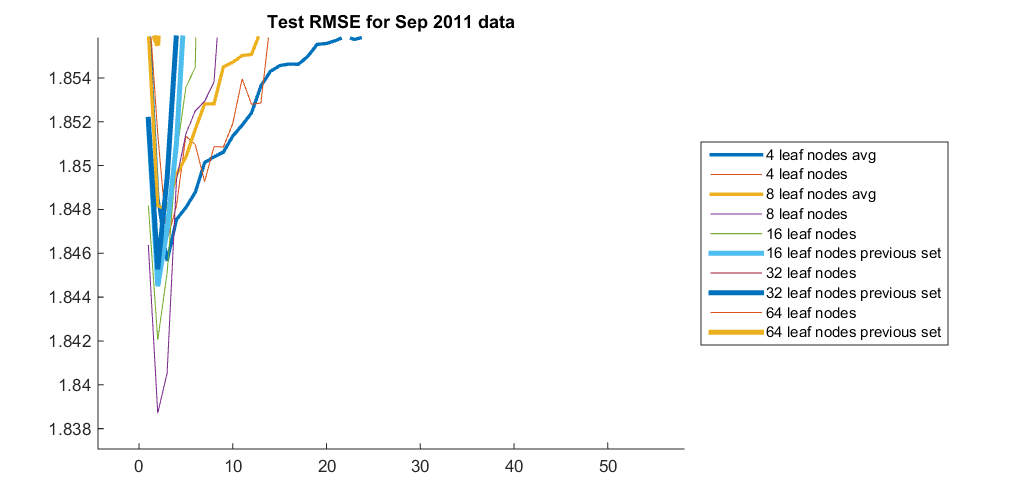
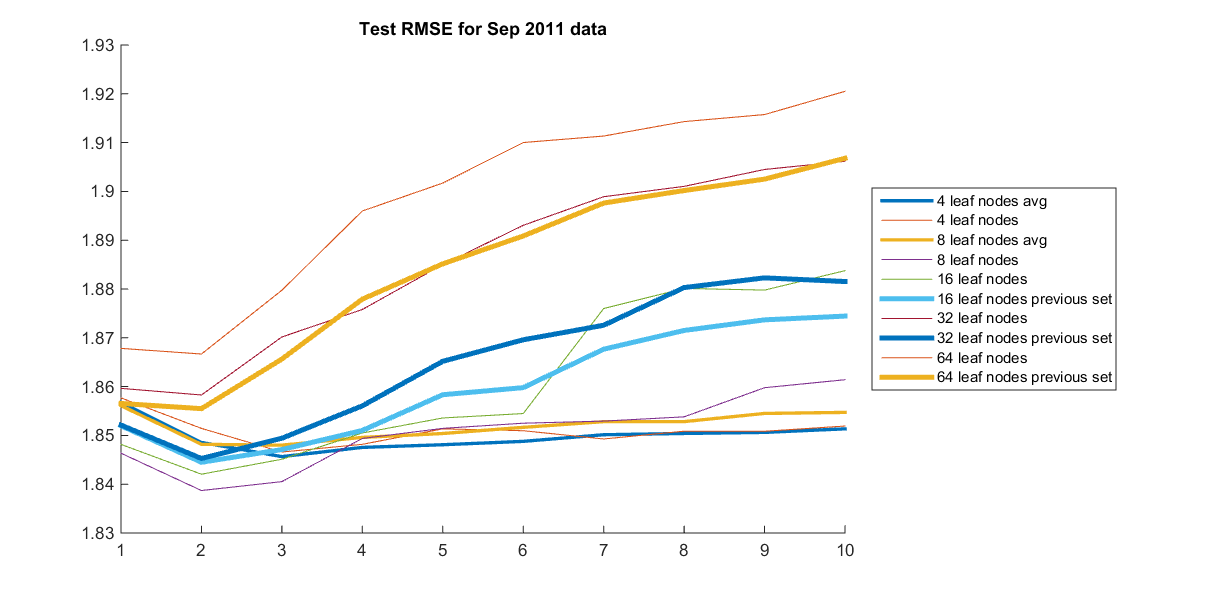
df

diff --git a/VariousTrainingSets/testTreeOverSep2011.m b/VariousTrainingSets/testTreeOverSep2011.m
@@ -59,18 +59,25 @@ J16dataOther = load('rmseValidationSep2011_J16rf8_other.mat');
 J32dataOther = load('rmseValidationSep2011_J32rf8_other.mat');
 J64dataOther = load('rmseValidationSep2011_J64rf8_other.mat');
 
+indsToSee = 1:20;
 figure
 hold on
-plot(J4dataAvg.rmseTestVals,'LineWidth',2);
-plot(J4data.rmseTestVals);
-plot(J8dataAvg.rmseTestVals,'LineWidth',2);
-plot(J8data.rmseTestVals);
-plot(J16data.rmseTestVals);
-plot(J16dataOther.rmseTestVals,'LineWidth',3);
-plot(J32data.rmseTestVals);
-plot(J32dataOther.rmseTestVals,'LineWidth',3);
-plot(J64data.rmseTestVals);
-plot(J64dataOther.rmseTestVals,'LineWidth',3);
+plot(J4dataAvg.rmseTestVals(indsToSee),'LineWidth',2);
+plot(J4data.rmseTestVals(indsToSee));
+plot(J8dataAvg.rmseTestVals(indsToSee),'LineWidth',2);
+plot(J8data.rmseTestVals(indsToSee));
+plot(J16data.rmseTestVals(indsToSee));
+%plot(J16dataOther.rmseTestVals(indsToSee),'LineWidth',3);
+plot(J32data.rmseTestVals(indsToSee));
+%plot(J32dataOther.rmseTestVals(indsToSee),'LineWidth',3);
+%plot(J64data.rmseTestVals(indsToSee));
+%plot(J64dataOther.rmseTestVals(indsToSee),'LineWidth',3);
+legend('4 leaf nodes avg','4 leaf nodes','8 leaf nodes avg',...
+    '8 leaf nodes',...
+    '16 leaf nodes',...
+    '32 leaf nodes',...
+    'Location','eastoutside');
+%{
 legend('4 leaf nodes avg','4 leaf nodes','8 leaf nodes avg',...
     '8 leaf nodes',...
     '16 leaf nodes',...
@@ -80,6 +87,7 @@ legend('4 leaf nodes avg','4 leaf nodes','8 leaf nodes avg',...
     '64 leaf nodes',...
     '64 leaf nodes previous set',...
     'Location','eastoutside');
+    %}
 title('Test RMSE for Sep 2011 data');
 hold off
 
